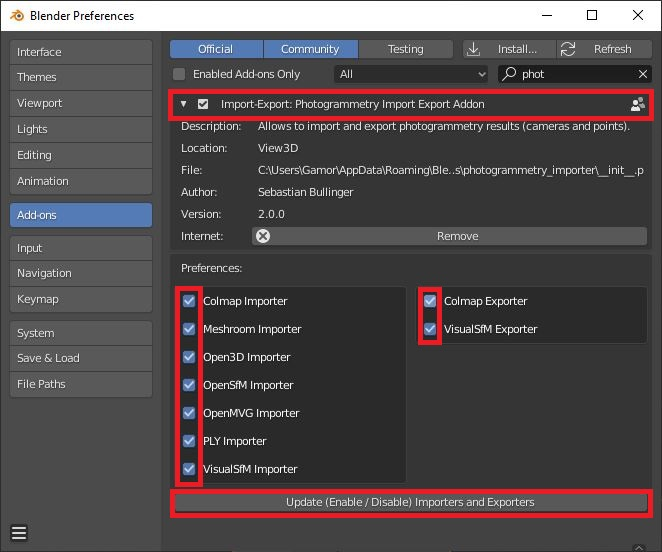
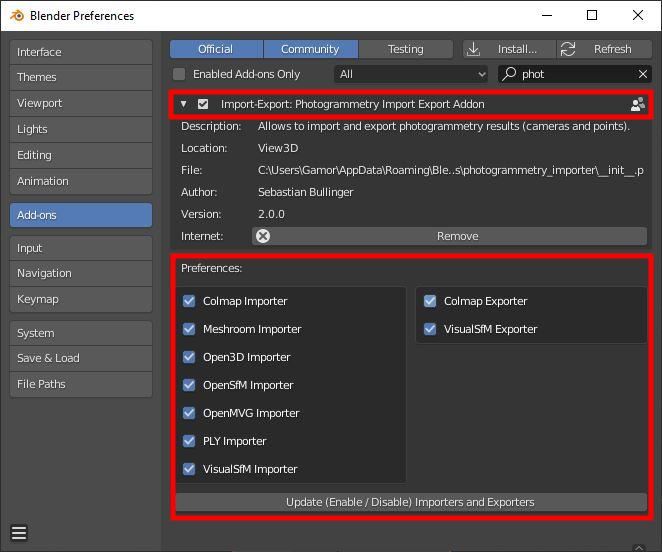
Added documentation for customizable options

Changed region(s): [[0.2417, 0.4312, 0.997, 0.9547], [0.2417, 0.154, 0.997, 0.2464]]

diff --git a/doc/sphinx/source/customize.rst b/doc/sphinx/source/customize.rst
@@ -1,0 +1,22 @@
+*******************************
+Customize Import/Export Options
+*******************************
+
+Enable / Disable Importers and Exporters
+========================================
+
+If you want to only add a subset of the provided import/export functions, adjust the checkboxes in the `Addon preferences` and click on the :code:`Update (Enable/Disable) Importers and Exporters` button as shown below:
+
+.. image:: ../../images/addon_preferences_annotations.jpg
+   :scale: 75 %
+   :align: center
+
+Adjusting Default Import Options
+================================
+
+Furthermore, it is possible to set the default import options by adjusting the corresponding settings in the `Addon Preferences` - see the image below.
+
+.. image:: ../../images/addon_preferences_extended_annotations.jpg
+   :scale: 75 %
+   :align: center
+

diff --git a/doc/sphinx/source/installation.rst b/doc/sphinx/source/installation.rst
@@ -56,11 +56,7 @@ Install the addon by
    :scale: 75 %
    :align: center
 
-If you want to only add a subset of the provided import/export functions, adjust the checkboxes in the addon preferences and click on  the :code:`Update (Enable/Disable) Importers and Exporters` button as shown below:
-
-.. image:: ../../images/addon_preferences_annotations.jpg
-   :scale: 75 %
-   :align: center
+Follow the instructions on the :doc:`customize <./customize>` page, to adjust the default options of the addon. 
 
 Optional Dependency for VisualSfM and OpenMVG/Regard3D Files
 ============================================================

diff --git a/doc/sphinx/source/index.rst b/doc/sphinx/source/index.rst
@@ -51,6 +51,7 @@ Getting Started
    self
    installation
    troubleshooting
+   customize
    examples
    import
    export
